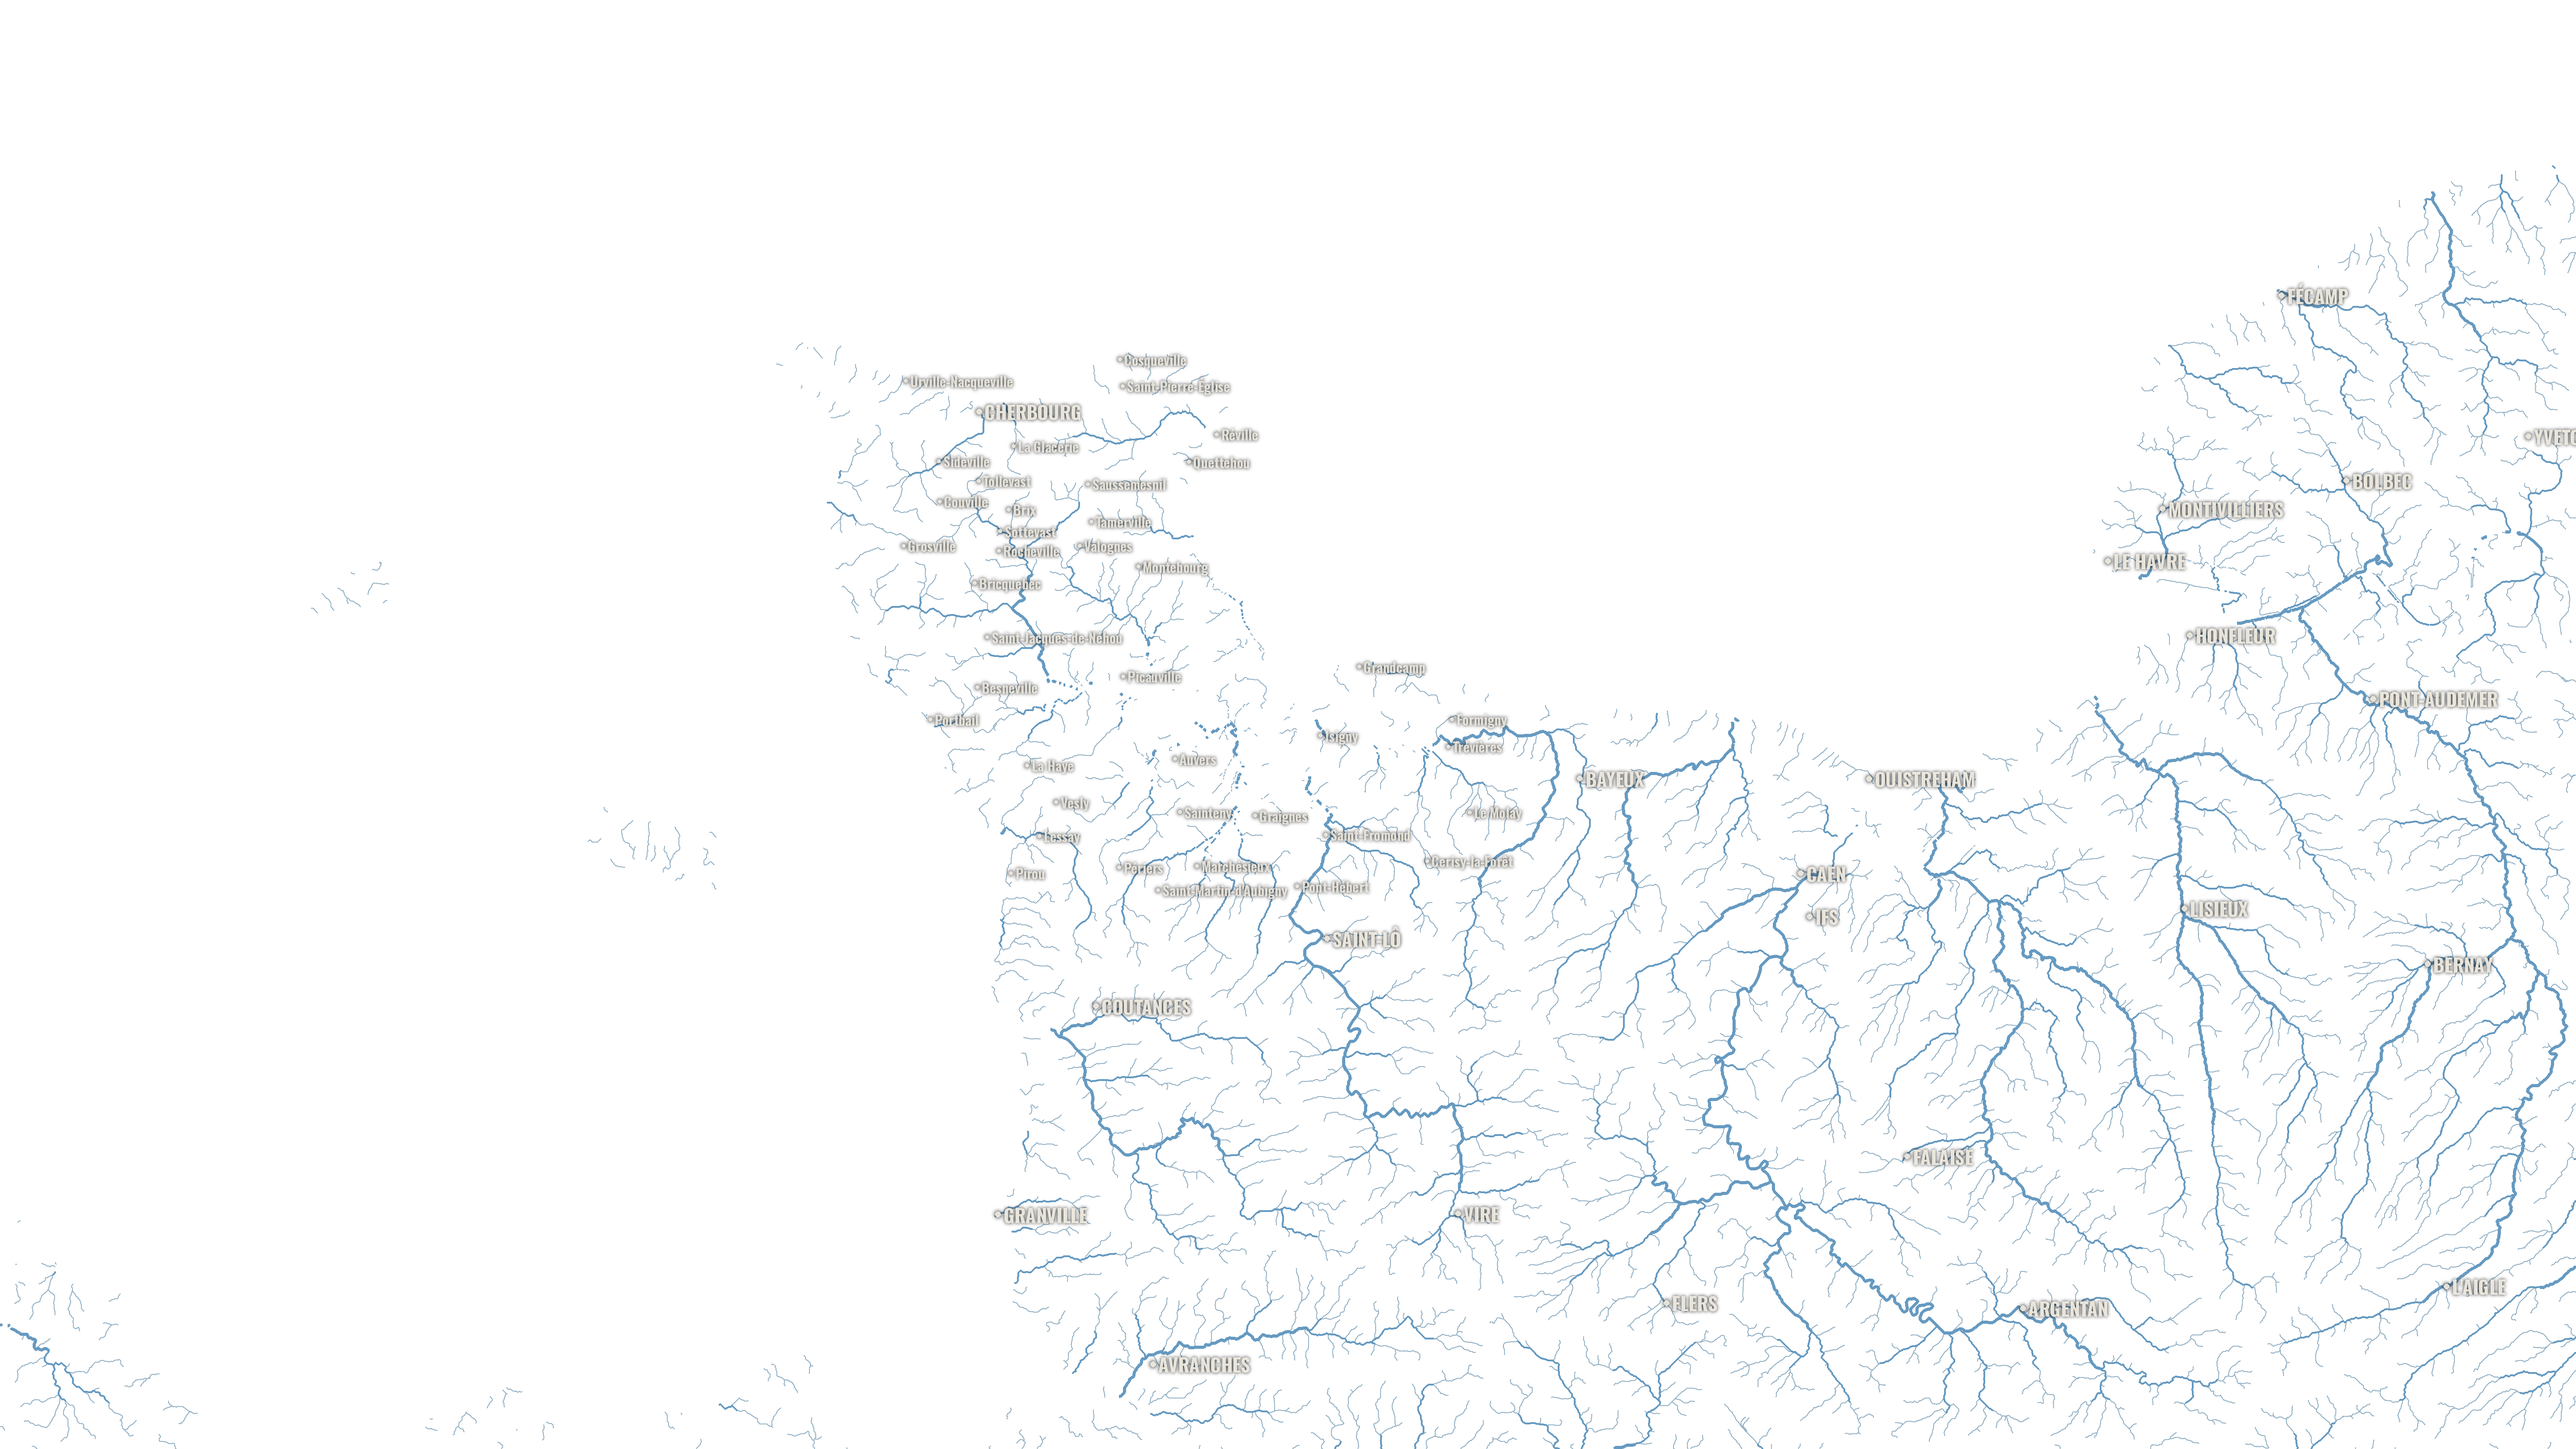
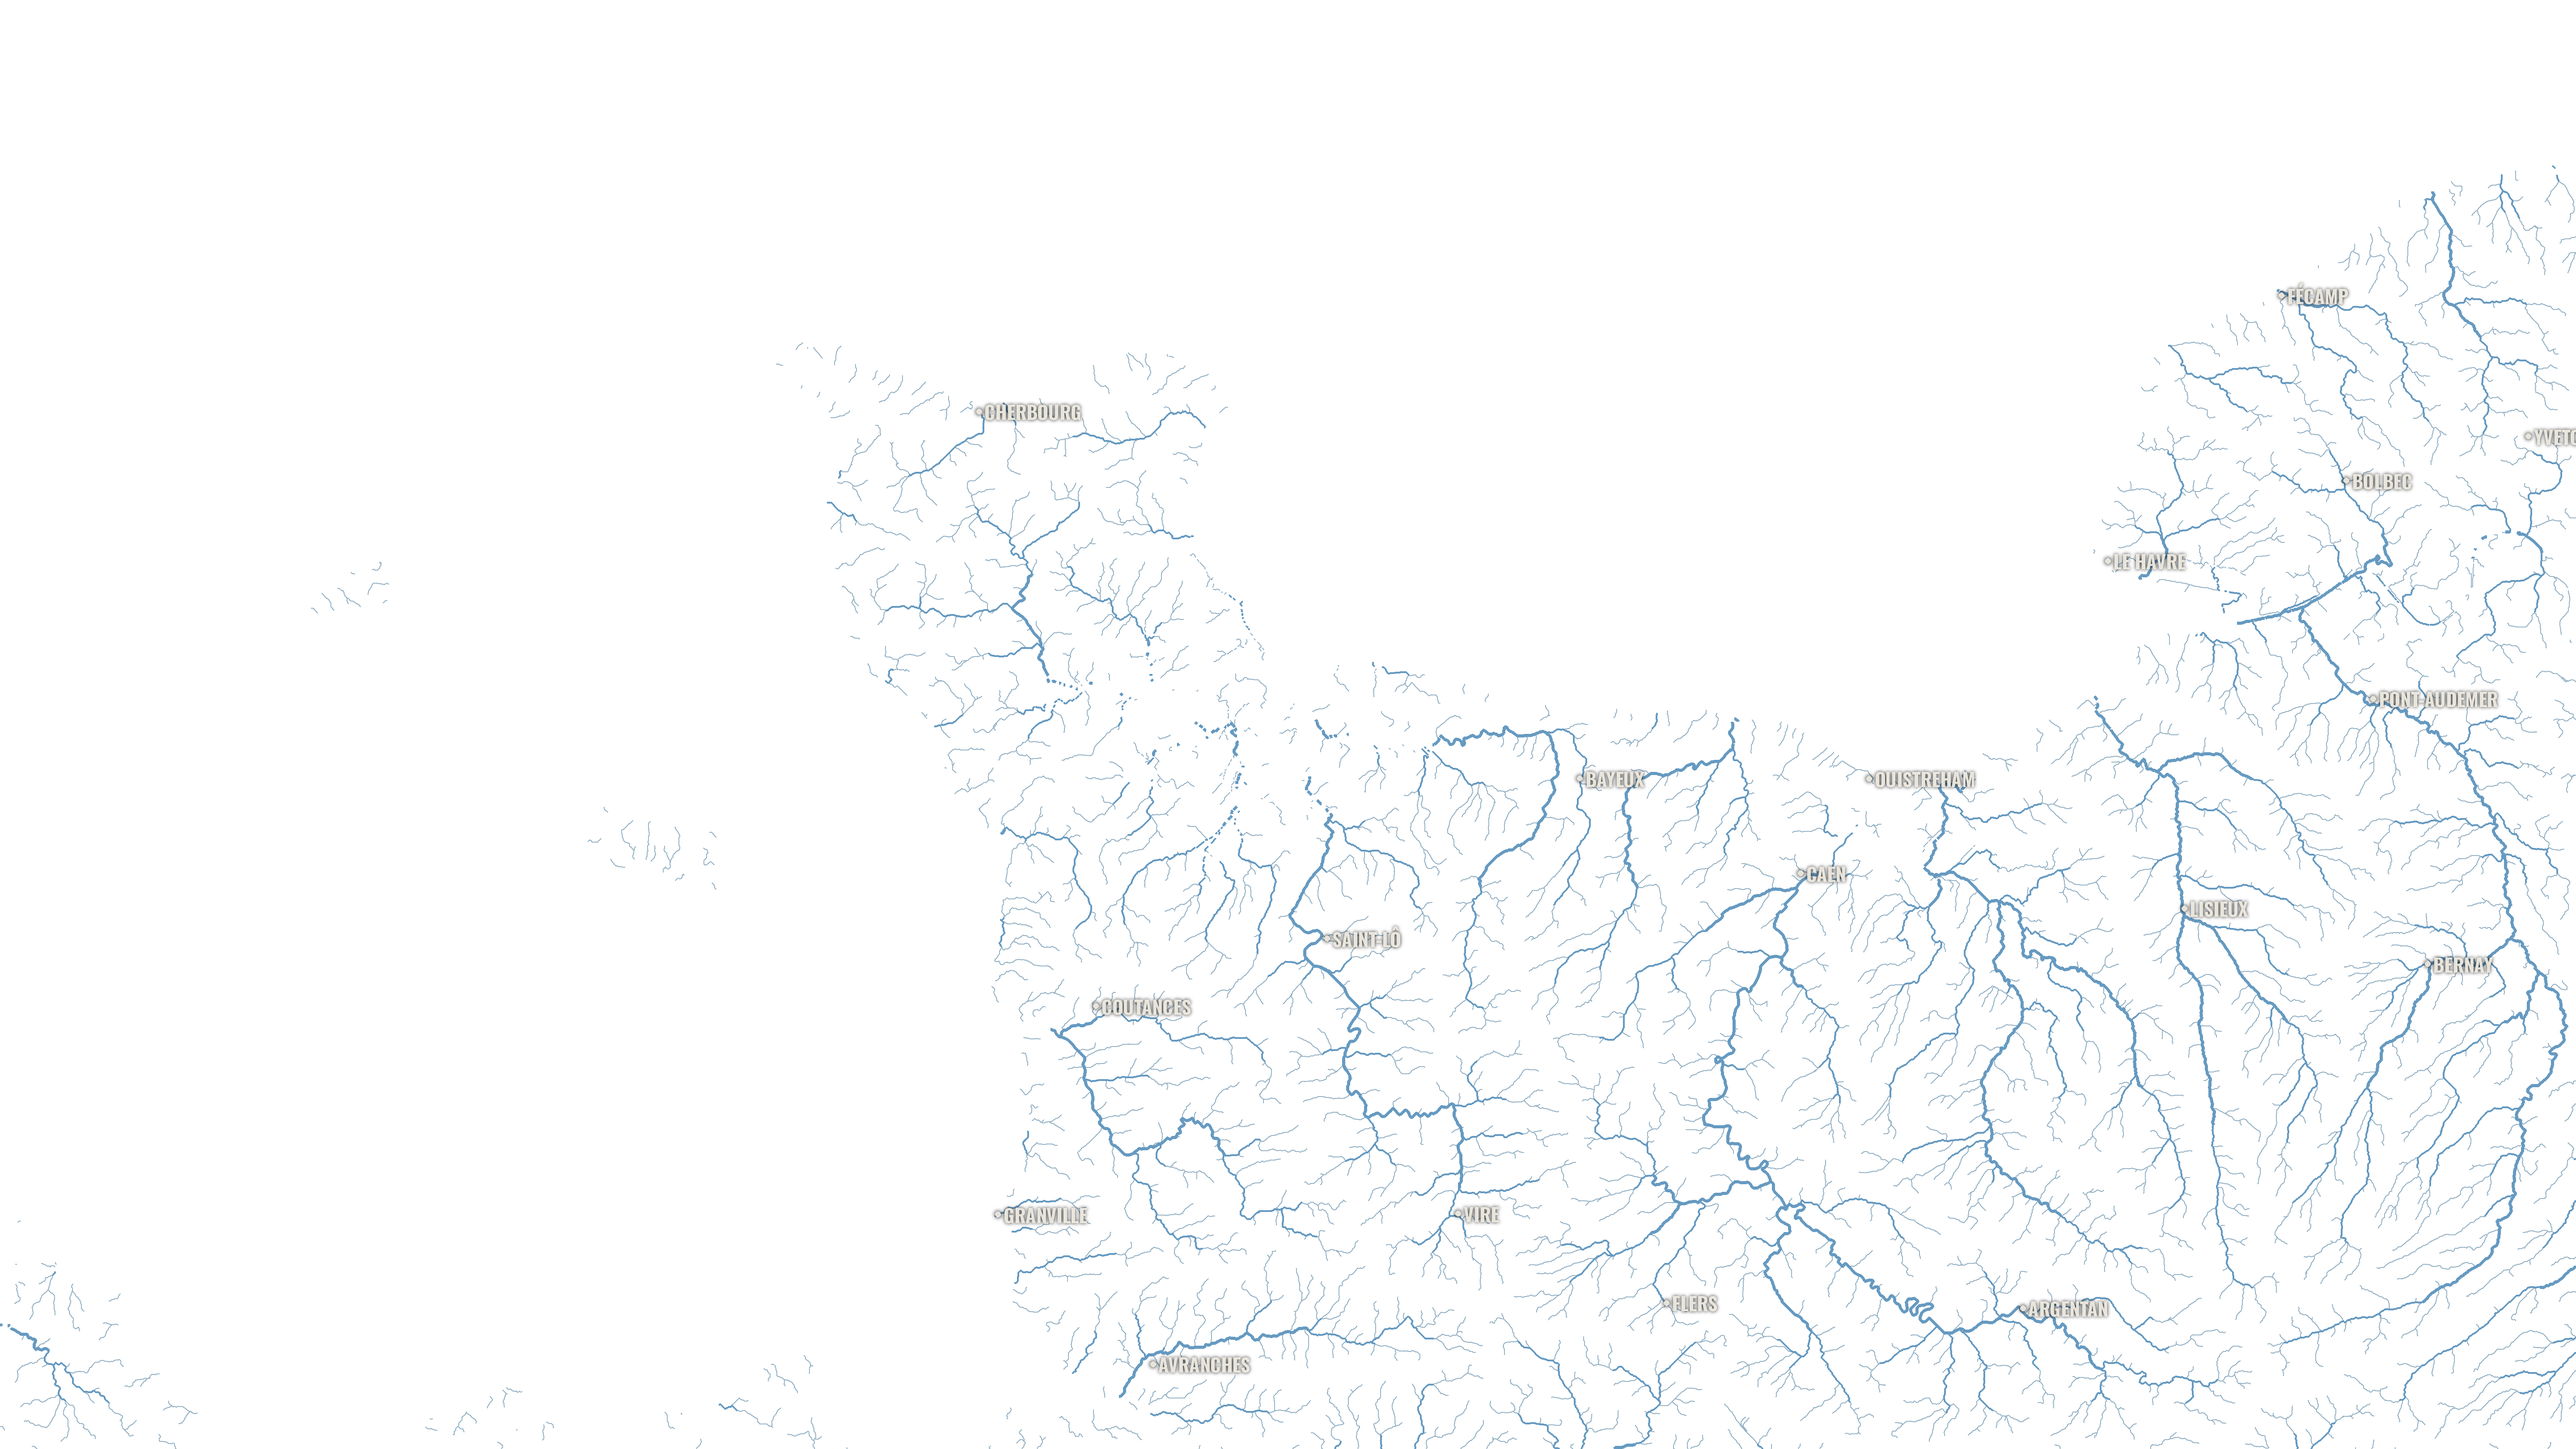
Map detail: only big towns (8,000+, no villages, no suburbs), no GERMANY label next to the emblem, no redundant TO CHERBOURG label (owner)
Claude-Session: https://claude.ai/code/session_01WkfTXMijzYmHkT983gtuMT

diff --git a/frontlines-1m/scenes-src/europe_hd.js b/frontlines-1m/scenes-src/europe_hd.js
@@ -21,7 +21,6 @@ B.showDate(0.2); B.date("5 JUNE 1944", 0.4, null, 34);
 B.image("assets/media/emblem_ger.png", ex - 190, ey - 190, 380, 380, { t: T_FOUR - 0.3, dur: 1.4, opacity: 0.8, until: T_ENG - 0.2 });
 SFX("ref:boom", T_FOUR - 0.3);
 const box = (txt, x, y, t, size = 26, until) => { SFX("ref:pop", t); return GG.pin(`<div style="background:#f1eee6;color:#111;font-family:Oswald;font-weight:500;letter-spacing:.32em;padding:${Math.round(size * 0.2)}px ${Math.round(size * 0.35)}px ${Math.round(size * 0.2)}px ${Math.round(size * 0.6)}px;font-size:${size}px;box-shadow:0 2px 8px rgba(0,0,0,.6)">${txt}</div>`, x, y, { t, until }); };
-box("GERMANY", ...G(48.9, 11.0), T_FOUR + 0.6, 22, T_ENG - 0.2);
 box("OCCUPIED FRANCE", ...G(46.8, 2.4), T_COAST, 20, T_13);
 box("OCCUPIED NORWAY", ...G(61.0, 9.0), T_COAST + 0.4, 18, T_13);
 box("GREAT BRITAIN", ...G(53.2, -1.6), T_ENG - 0.2, 18, T_MISSION);

diff --git a/frontlines-1m/scenes-src/normandy_hd.js b/frontlines-1m/scenes-src/normandy_hd.js
@@ -24,7 +24,6 @@ box("SAINTE-MÈRE-ÉGLISE", SME[0] - 125, SME[1] + 52, 0.6, 12); box("UTAH BEACH
 B.city("", ...SME, { r: 7, t: 0.6 });
 // the main road from Cherbourg to Carentan (N13) through the town
 GG.road([CHB, VAL, [SME[0] - 18, SME[1] - 40], SME, [SME[0] + 20, SME[1] + 60], CAR], { w: 5, t: 0.4 });
-GG.lbl("TO CHERBOURG", VAL[0] - 30, VAL[1] - 20, { size: 16, t: 0.8 });
 // scattered parachutes everywhere (most men far from their drop zones)
 const CH = [[-150, -90], [-120, 40], [-60, -140], [-30, 90], [20, -60], [60, 120], [110, -20], [150, 70], [-200, 10], [190, -110], [-90, 160], [40, 200], [230, 30], [-250, -60], [80, -170], [-170, 120]];
 CH.forEach(([dx, dy], i) => GG.chute(SME[0] + dx, SME[1] + dy, 0.3 + i * 0.12, { s: 20, until: T_SMALL + 1.6 }));

diff --git a/frontlines-1m/tools/make_geo_layer.py b/frontlines-1m/tools/make_geo_layer.py
@@ -59,6 +59,9 @@ for el in O.get("places", []):
     if (nm.startswith(("St ", "Saint ")) and "-" not in nm) or (el["lon"] < -1.9 and el["lat"] < 49.55): continue  # Channel Islands (Jersey, Guernsey...)  # Channel Islands (English-style names), not part of the story
     x, y = P(el["lat"], el["lon"])
     if 0 <= x < W and 0 <= y < H: pl.append((el.get("tags", {}).get("place") in ("city", "town"), popn(el), nm, x, y))
+MINPOP = int(sys.argv[5]) if len(sys.argv) > 5 else 0   # owner 2026-10-06: "just the big towns" -> towns above MINPOP, no villages (MAXV 0)
+SUBURBS = {"Hérouville-Saint-Clair", "Ifs", "Mondeville", "Montivilliers"}
+pl = [q for q in pl if q[0] and q[1] >= MINPOP and q[2] not in SUBURBS] if MINPOP else pl
 pl.sort(key=lambda q: (not q[0], -q[1]))   # towns first, then villages by population
 taken, MAXV, nv = [], int(sys.argv[4]) if len(sys.argv) > 4 else 40, 0
 def free(b): return all(b[2] < a[0] or b[0] > a[2] or b[3] < a[1] or b[1] > a[3] for a in taken)
